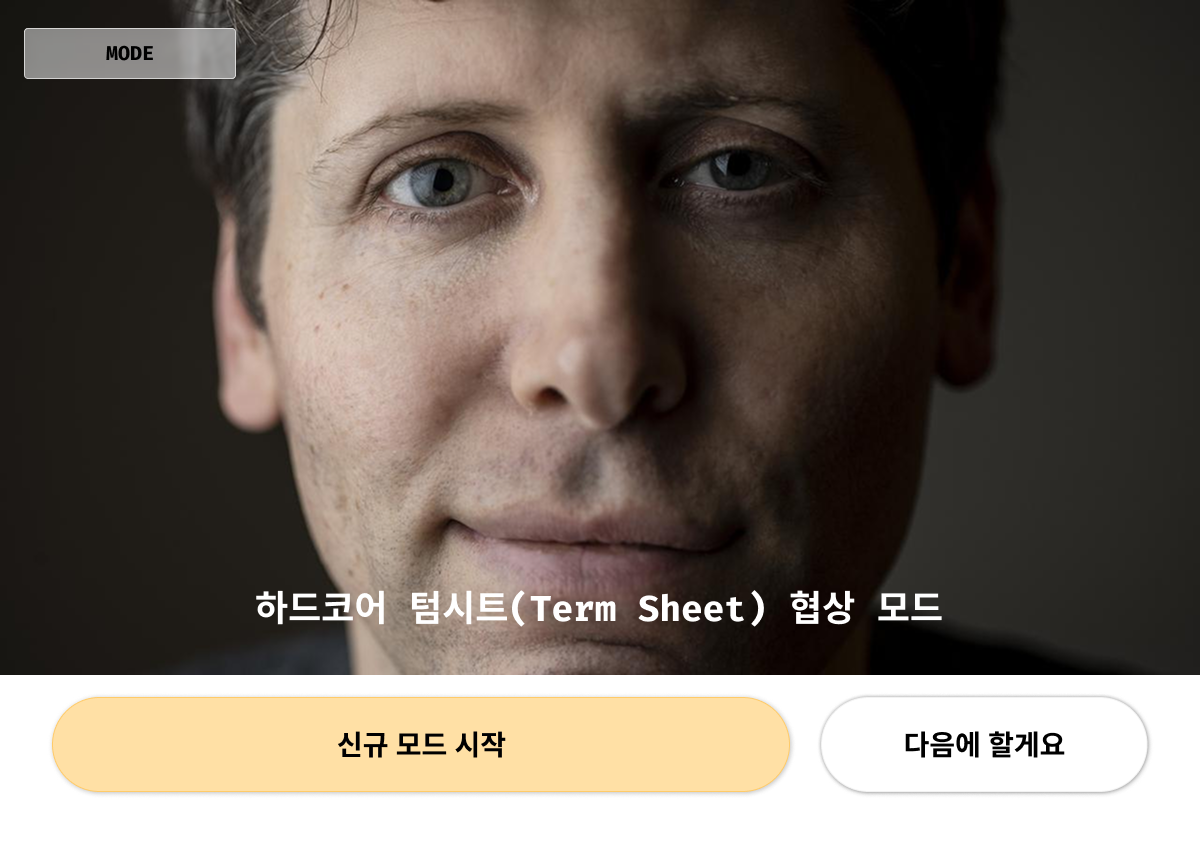
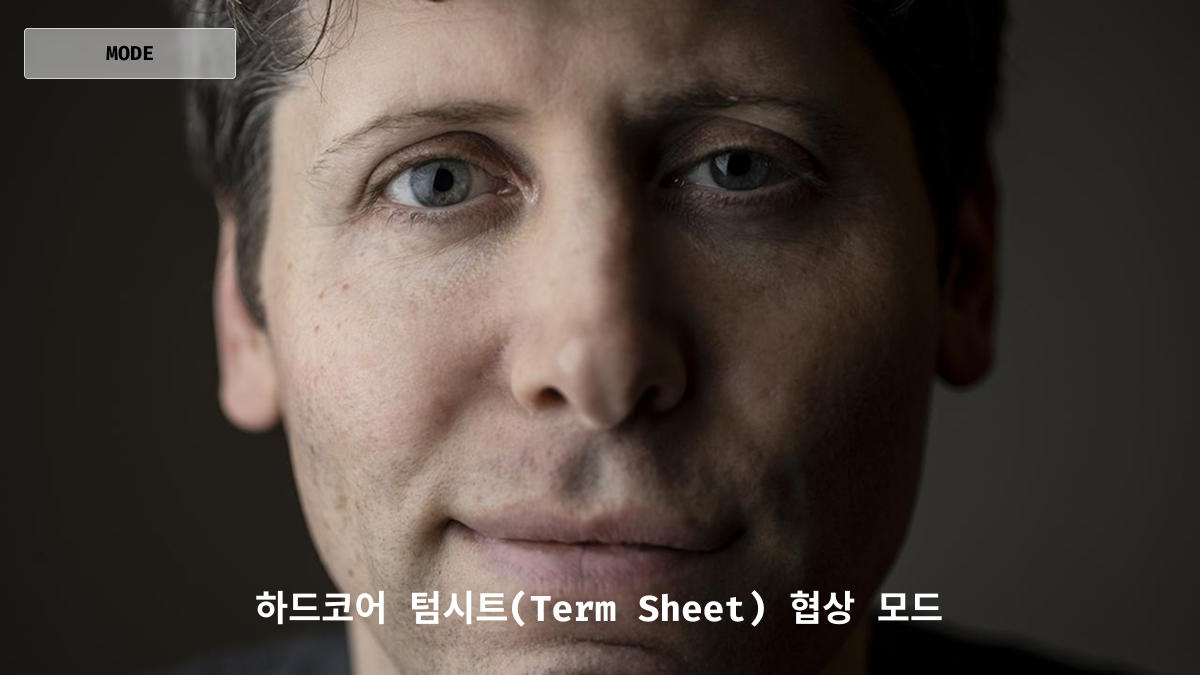
feat: asset button added

diff --git a/src/app/page.tsx b/src/app/page.tsx
@@ -1,7 +1,7 @@
 'use client';
 
 import { useState, useEffect, useRef } from 'react';
-import { SendHorizonal, Bot, User, AlertCircle, Settings, X, Copy, RotateCcw, Check, Image as ImageIcon, MessageSquareQuote, Plus, Trash2, Hash, MessageCircle } from 'lucide-react';
+import { SendHorizonal, Bot, User, AlertCircle, Settings, X, Copy, RotateCcw, Check, Image as ImageIcon, MessageSquareQuote, Plus, Trash2, Hash, MessageCircle, MoreVertical, ThumbsUp, ThumbsDown } from 'lucide-react';
 import { parseSSEStream } from '@/lib/sse';
 import { CHARACTER_CONFIG } from '@/config/character';
 
@@ -16,6 +16,8 @@ interface Asset {
   altText: string;
   fileName: string;
   url: string;
+  primaryButton?: string;
+  secondaryButton?: string;
 }
 
 interface RenderChunk {
@@ -41,7 +43,9 @@ export default function ChatPage() {
         slug: a.slug,
         altText: a.altText,
         fileName: a.path.split('/').pop() || 'Static',
-        url: a.path 
+        url: a.path,
+        primaryButton: (a as any).primaryButton,
+        secondaryButton: (a as any).secondaryButton
       }))
     );
   }, []);
@@ -56,6 +60,13 @@ export default function ChatPage() {
   const [model, setModel] = useState('gemini-2.5-flash');
   const [isCopied, setIsCopied] = useState(false);
   const [showSettings, setShowSettings] = useState(false);
+  const [openMenuId, setOpenMenuId] = useState<string | null>(null);
+  const [demoFeedbackId, setDemoFeedbackId] = useState<string | null>(null);
+  
+  const handleDemoAction = (id: string) => {
+    setDemoFeedbackId(id);
+    setTimeout(() => setDemoFeedbackId(null), 2000);
+  };
   
   const scrollRef = useRef<HTMLDivElement>(null);
   const fileInputRef = useRef<HTMLInputElement>(null);
@@ -250,13 +261,62 @@ export default function ChatPage() {
             return (
               <div key={`${msgIdx}-${chunkIdx}`} className={`flex items-start gap-3 ${m.role === 'user' ? 'flex-row-reverse' : 'flex-row'} animate-in fade-in slide-in-from-bottom-2 duration-500`}>
                 {chunk.type === 'asset' ? (
-                  <div className="max-w-[90%] rounded-xl overflow-hidden py-1">
-                    {matchingAsset ? (
-                      <img src={matchingAsset.url} alt={matchingAsset.altText} className="w-full h-auto rounded-lg" />
-                    ) : (
-                      <div className="p-8 flex flex-col items-center gap-3 text-black/20 font-medium text-[10px] uppercase italic bg-white/40 backdrop-blur-sm rounded-xl">
-                        <ImageIcon size={24} strokeWidth={1.5} />
-                        DETACHED_ASSET: {chunk.value}
+                  <div className="max-w-[90%] flex flex-col gap-2 py-1">
+                    <div className="rounded-xl overflow-hidden">
+                      {matchingAsset ? (
+                        <img src={matchingAsset.url} alt={matchingAsset.altText} className="w-full h-auto rounded-lg" />
+                      ) : (
+                        <div className="p-8 flex flex-col items-center gap-3 text-black/20 font-medium text-[10px] uppercase italic bg-white/40 backdrop-blur-sm rounded-xl border border-black/5">
+                          <ImageIcon size={24} strokeWidth={1.5} />
+                          DETACHED_ASSET: {chunk.value}
+                        </div>
+                      )}
+                    </div>
+                    {matchingAsset && (matchingAsset.primaryButton || matchingAsset.secondaryButton) && (
+                      <div className="flex gap-2 px-0.5 relative">
+                        {matchingAsset.primaryButton && (
+                          <button 
+                            onClick={() => handleDemoAction(`${msgIdx}-${chunkIdx}`)}
+                            className={`flex-1 py-2.5 text-white rounded-xl font-bold text-[11px] shadow-lg shadow-black/5 hover:scale-[1.01] active:scale-[0.99] transition-all ${demoFeedbackId === `${msgIdx}-${chunkIdx}` ? 'bg-black/70' : 'bg-black'}`}
+                          >
+                            {demoFeedbackId === `${msgIdx}-${chunkIdx}` ? '⚠ 데모 기능입니다' : matchingAsset.primaryButton}
+                          </button>
+                        )}
+                        <button 
+                          onClick={() => setOpenMenuId(openMenuId === `${msgIdx}-${chunkIdx}` ? null : `${msgIdx}-${chunkIdx}`)}
+                          className={`w-9 h-9 shrink-0 bg-white/60 border border-black/5 rounded-xl flex items-center justify-center transition-all shadow-sm ${openMenuId === `${msgIdx}-${chunkIdx}` ? 'bg-black/5 text-black' : 'text-black/50 hover:bg-white/90 hover:text-black/80'}`}
+                        >
+                          <MoreVertical size={16} />
+                        </button>
+
+                        {/* Dropdown Menu */}
+                        {openMenuId === `${msgIdx}-${chunkIdx}` && (
+                          <div className="absolute top-[2.5rem] right-0 mt-1 w-[200px] bg-white/95 backdrop-blur-md border border-black/5 rounded-2xl shadow-xl shadow-black/10 z-50 overflow-hidden flex flex-col p-1 animate-in fade-in zoom-in-95 duration-200 origin-top-right">
+                            {matchingAsset.secondaryButton && (
+                              <button 
+                                onClick={() => setOpenMenuId(null)}
+                                className="w-full text-left px-3 py-2.5 hover:bg-black/5 rounded-xl text-[11px] font-bold text-black/70 transition-colors"
+                              >
+                                {matchingAsset.secondaryButton}
+                              </button>
+                            )}
+                            {(matchingAsset.primaryButton || matchingAsset.secondaryButton) && <div className="h-px bg-black/5 my-0.5 mx-2" />}
+                            <button 
+                              onClick={() => setOpenMenuId(null)}
+                              className="w-full text-left px-3 py-2.5 hover:bg-blue-50/50 rounded-xl text-[11px] font-bold text-black/70 hover:text-blue-600 transition-colors flex items-center gap-2"
+                            >
+                              <ThumbsUp size={12} />
+                              이 추천이 마음에 들어요
+                            </button>
+                            <button 
+                              onClick={() => setOpenMenuId(null)}
+                              className="w-full text-left px-3 py-2.5 hover:bg-red-50/50 rounded-xl text-[11px] font-bold text-black/70 hover:text-red-600 transition-colors flex items-center gap-2"
+                            >
+                              <ThumbsDown size={12} />
+                              이 추천이 마음에 안 들어요
+                            </button>
+                          </div>
+                        )}
                       </div>
                     )}
                   </div>
@@ -321,16 +381,35 @@ export default function ChatPage() {
 
       {/* 2. Settings Section - State-Controlled for reuse */}
       {showSettings && (
-        <div className="settings-section no-scrollbar animate-in slide-in-from-right duration-500">
-          <div className="flex items-center gap-3 mb-6">
-          <div className="w-10 h-10 rounded-xl bg-white flex items-center justify-center shadow-md border border-black/5">
-            <Settings size={20} className="text-black/70" />
+        <div className="settings-section no-scrollbar animate-in slide-in-from-right duration-500 relative">
+          <div className="flex flex-col gap-4 mb-6 pb-4 border-b border-black/5 sticky top-0 z-10 bg-[rgba(255,255,255,0.85)] backdrop-blur-xl -mx-5 px-5 pt-5 -mt-5">
+            <div className="flex items-center gap-3">
+              <div className="w-10 h-10 rounded-xl bg-white flex items-center justify-center shadow-md border border-black/5">
+                <Settings size={20} className="text-black/70" />
+              </div>
+              <div>
+                <h2 className="font-bold text-base gradient-text">Character Lab</h2>
+                <p className="text-[9px] font-bold text-black/30 uppercase tracking-widest leading-none">Protocol config</p>
+              </div>
+            </div>
+            <div className="flex items-center gap-2">
+              <button 
+                onClick={resetChat} 
+                title="변경된 설정을 즉시 적용하고 대화를 처음부터 다시 시작합니다."
+                className="flex-1 py-2.5 bg-black text-white rounded-xl font-bold text-[11px] shadow-sm shadow-black/10 hover:scale-[1.01] active:scale-[0.99] transition-all flex items-center justify-center gap-1.5"
+              >
+                 <RotateCcw size={14} /> Apply & Reset
+              </button>
+              <button 
+                onClick={copyConfig} 
+                title="현재의 모든 설정값을 JSON 형태로 복사하여 백업하거나 다른 환경에 붙여넣을 수 있습니다."
+                className={`flex-1 py-2.5 rounded-xl font-bold text-[11px] transition-all flex items-center justify-center gap-1.5 ${isCopied ? 'bg-green-500 text-white shadow-green-200 shadow-sm' : 'bg-white border border-black/5 text-black hover:bg-black/5'}`}
+              >
+                {isCopied ? <Check size={14} /> : <Copy size={14} />}
+                {isCopied ? 'COPIED' : 'Export Config'}
+              </button>
+            </div>
           </div>
-          <div>
-            <h2 className="font-bold text-base gradient-text">Character Lab</h2>
-            <p className="text-[9px] font-bold text-black/30 uppercase tracking-widest leading-none">Protocol config</p>
-          </div>
-        </div>
 
         <div className="space-y-8 flex-1">
           <GlassSection label="Entrypoint" icon={<MessageCircle size={14} />}>
@@ -392,16 +471,6 @@ export default function ChatPage() {
               </div>
             </div>
           </GlassSection>
-        </div>
-
-        <div className="pt-6 space-y-3 shrink-0">
-          <button onClick={resetChat} className="w-full py-3.5 bg-black text-white rounded-xl font-bold text-xs shadow-xl shadow-black/10 hover:scale-[1.01] active:scale-[0.99] transition-all flex items-center justify-center gap-2">
-             <RotateCcw size={16} /> Apply & Reset Chat
-          </button>
-          <button onClick={copyConfig} className={`w-full py-3.5 rounded-xl font-bold text-xs transition-all flex items-center justify-center gap-2 ${isCopied ? 'bg-green-500 text-white shadow-green-200 shadow-lg' : 'bg-white border border-black/5 text-black hover:bg-black/5'}`}>
-            {isCopied ? <Check size={16} /> : <Copy size={16} />}
-            {isCopied ? 'COPIED' : 'Export Config (JSON)'}
-          </button>
         </div>
       </div>
     )}

diff --git a/src/config/character.ts b/src/config/character.ts
@@ -64,22 +64,30 @@ export const CHARACTER_CONFIG = {
     {
       slug: "newct",
       altText: "새로운 콘텐츠 모드",
-      path: "/assets/새로운 콘텐츠 모드.png"
+      path: "/assets/새로운 콘텐츠 모드.png",
+      primaryButton: "신규 모드 시작",
+      secondaryButton: "다음에 할게요"
     },
     {
       slug: "origc",
       altText: "원작 추천",
-      path: "/assets/원작 추천.png"
+      path: "/assets/원작 추천.png",
+      primaryButton: "바로 시청하기",
+      secondaryButton: "다음에 볼게요"
     },
     {
       slug: "paidc",
       altText: "유료 콘텐츠 추천",
-      path: "/assets/유료 콘텐츠 추천.png"
+      path: "/assets/유료 콘텐츠 추천.png",
+      primaryButton: "바로 구매하기($99)",
+      secondaryButton: "다음에 볼게요"
     },
     {
       slug: "merch",
       altText: "파생 상품 추천",
-      path: "/assets/파생 상품 추천.png"
+      path: "/assets/파생 상품 추천.png",
+      primaryButton: "바로 구매하기 ($149 →$89)",
+      secondaryButton: "다음에 볼게요"
     }
   ]
 };
